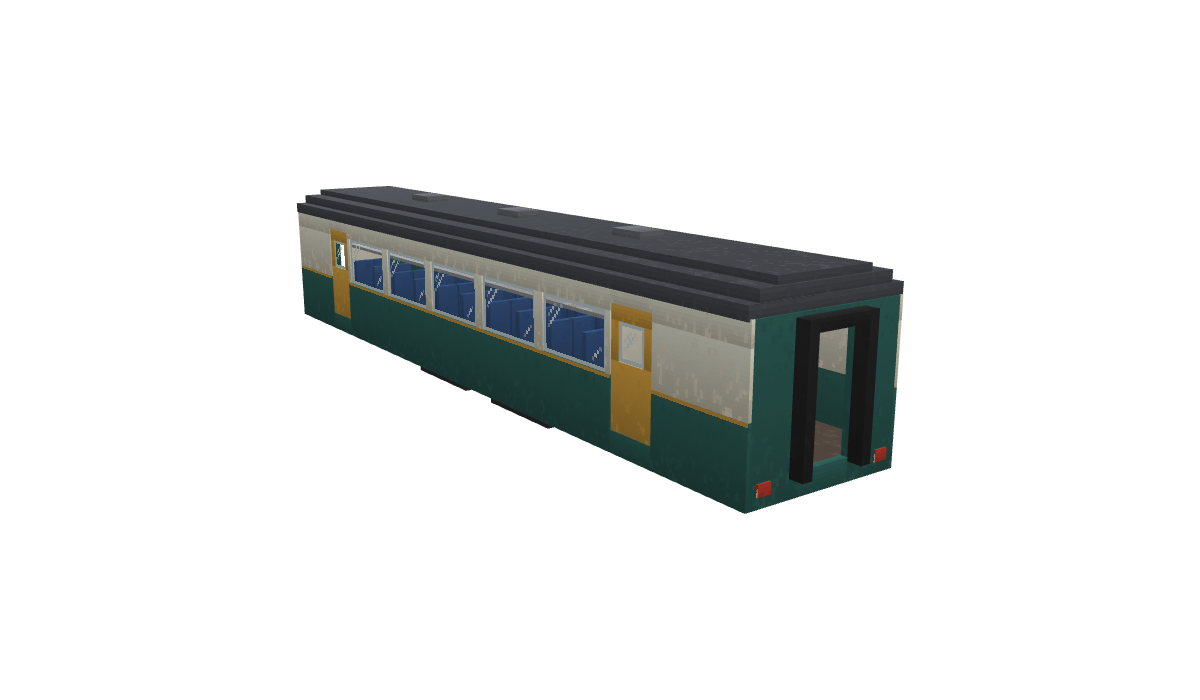
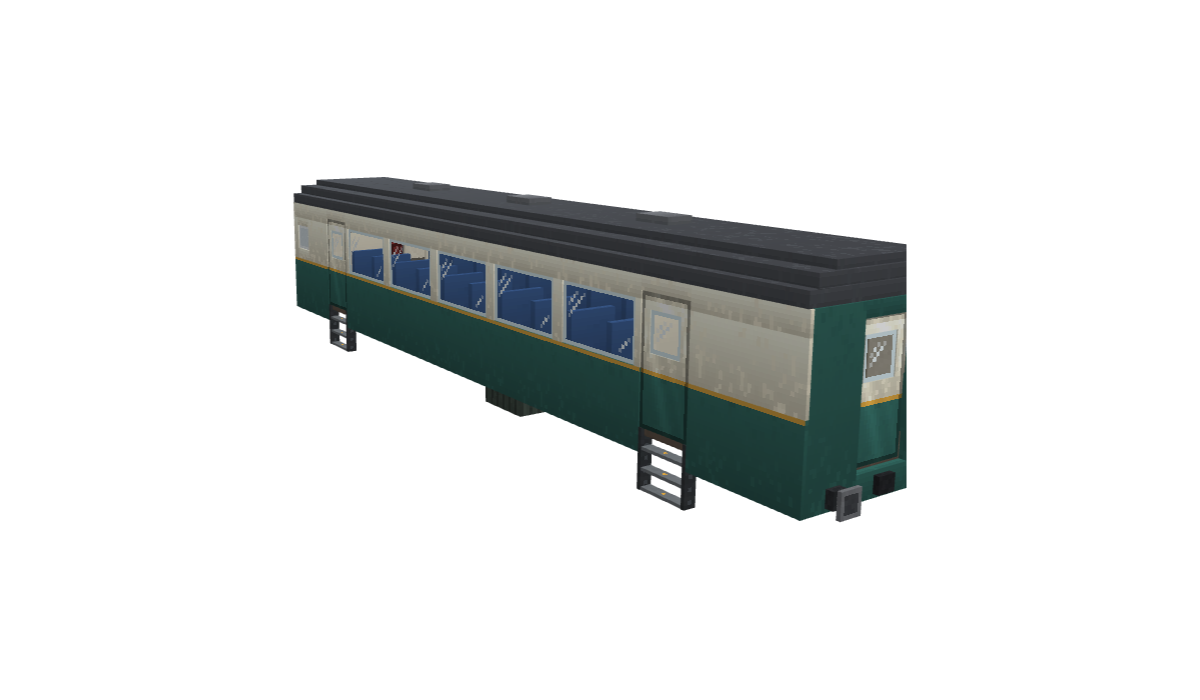
Update README for Beta 1.0 and refresh preview renders
Phase 1 marked complete (1.5-1.7), status set to Beta 1.0, feature
table covers the steam engine, goods wagons and couplers, new gallery of
the engine and wagons, project layout brought up to date.

Changed region(s): [[0.2467, 0.24, 0.7708, 0.75], [0.3392, 0.51, 0.4008, 0.57]]

diff --git a/README.md b/README.md
@@ -12,7 +12,7 @@ One item. One click. A real Create train — with walkable interiors, seats, doo
 [![Minecraft](https://img.shields.io/badge/Minecraft-1.21.1-5A8F3E?style=for-the-badge)](https://www.minecraft.net)
 [![NeoForge](https://img.shields.io/badge/NeoForge-21.1-D7742F?style=for-the-badge)](https://neoforged.net)
 [![Create](https://img.shields.io/badge/Create-6.0.10%2B-D9A441?style=for-the-badge)](https://github.com/Creators-of-Create/Create)
-[![Status](https://img.shields.io/badge/Status-Early%20development-2E5E57?style=for-the-badge)](#roadmap)
+[![Status](https://img.shields.io/badge/Status-Beta%201.0-2E5E57?style=for-the-badge)](#roadmap)
 [![License](https://img.shields.io/badge/License-MIT%20%C2%B7%20ARR%20assets-4A4D52?style=for-the-badge)](LICENSE.md)
 
 [Features](#features) &nbsp;·&nbsp; [How it works](#how-it-works) &nbsp;·&nbsp; [Roadmap](#roadmap) &nbsp;·&nbsp; [Custom trainsets](#make-your-own-trainsets) &nbsp;·&nbsp; [Building](#building-from-source) &nbsp;·&nbsp; [License](#license)
@@ -22,7 +22,7 @@ One item. One click. A real Create train — with walkable interiors, seats, doo
 <br>
 
 > [!IMPORTANT]
-> **Railbound is in early development.** The passenger coach and the steam tank locomotive can be placed, assembled and driven as real Create trains — with full 3D models, walkable interiors, working doors and a coal-and-water steam engine. Couplers are being built now; freight carriages come next. Follow the [roadmap](#roadmap) for progress.
+> **Railbound is in beta (1.0).** Phase 1 is complete: a steam tank locomotive, a passenger coach, a Box Van and a Tank Wagon, all running as real Create trains. They have knuckle couplers that follow curves, and stopped trains can be split and joined. Trainsets come from the creative menu for now; crafting recipes arrive in Phase 2. Back up your world before trying it, and please report bugs on the [issue tracker](https://github.com/DharshanTeja/Create-Railbound/issues).
 
 <br>
 
@@ -30,28 +30,36 @@ One item. One click. A real Create train — with walkable interiors, seats, doo
 
 Building a good-looking train in Create takes hours of block-by-block work. Railbound gives you complete, detailed rolling stock in a single item — and it is still a genuine Create train underneath, so schedules, stations and signals work exactly as you expect.
 
-<sub>Everything below is the 1.0 goal. See the <a href="#roadmap">roadmap</a> for what is already done.</sub>
-
 | | |
 |---|---|
 | **Single-item trainsets** | Every locomotive and carriage is one item rendering a full, detailed model — no block-by-block building. |
 | **Real Create trains** | Placed with Create's own station assembly. Schedules, signals, stations and other train addons see an ordinary Create train. |
-| **Walkable interiors** | Step inside, walk the aisle and right-click a seat to sit. Passenger cars seat two abreast — a window seat each side of a centre aisle. |
+| **A real steam engine** | Coal heats water into steam pressure, and pressure sets the pull. Fill it from the bunker, a bucket, pipes, Portable Interfaces or the trackside Water Crane. Chuffs and smoke follow the driving wheels. |
+| **Walkable interiors** | Step inside, walk the aisle and right-click a seat to sit. In the loco cab, sitting in the driver's seat is all it takes to drive. |
 | **Doors that work** | Doors open automatically when the train stops at a station, using Create's train-door behaviour. |
-| **Freight that works** | The items carriage holds 160 stacks and the fluid carriage 144 buckets. Open them by hand, or load and unload through Create's Portable Storage and Portable Fluid Interfaces. |
-| **Mix and match** | Couple trainset cars with your own hand-built carriages in the same train. |
+| **Freight that works** | The Box Van holds 160 stacks and the Tank Wagon 144 buckets. Sneak-click to open them, or load and unload through Create's Portable Storage and Portable Fluid Interfaces. |
+| **Couplers that bend** | Knuckle couplers and gangway bellows follow the track, even on tight curves. Wrench a coupler to split a stopped train; back in slowly to join. |
+| **Mix and match** | The Knuckle Coupler block lets your own hand-built carriages couple to Railbound cars in the same train. |
 | **Data-driven** | Every design is a datapack + resource pack. Modpacks can add their own trains without writing code. |
 
 <div align="center">
+<img src="art/previews/loco_steam_tank.png" alt="The Steam Tank Engine, seen from the front" width="49%">
+<img src="art/previews/loco_steam_tank_rear.png" alt="The Steam Tank Engine's cab and coal bunker, seen from the rear" width="49%"><br>
+<img src="art/previews/wagon_box_van.png" alt="The Box Van, a covered goods wagon" width="49%">
+<img src="art/previews/wagon_tank.png" alt="The Tank Wagon, with walkways, handrails and a dome" width="49%"><br>
+<sub><i>The Steam Tank Engine, the Box Van and the Tank Wagon. In game they ride on Railbound's own bogeys.</i></sub>
+</div>
+
+<div align="center">
 <img src="art/previews/coach_standard_interior.png" alt="Interior of the Standard Passenger Coach: two-plus-two seating, luggage racks and a lit ceiling" width="640"><br>
-<sub><i>Inside the Standard Passenger Coach — prototype model. The final coach seats 20, one window seat each side of the aisle.</i></sub>
+<sub><i>Inside the Standard Passenger Coach.</i></sub>
 </div>
 
 ### Planned rolling stock
 
 | Phase | Locomotives | Carriages |
 |:---:|---|---|
-| 1 | Steam | Passenger coach · Items carriage · Fluid carriage |
+| 1 ✅ | Steam tank engine | Passenger coach · Box Van · Tank Wagon |
 | 2 | — | More carriage types |
 | 3 | 2 × Diesel | Passenger and goods multiple units |
 | 4 | 2 × Electric | 2 carriages per type · 2 EMUs |
@@ -63,7 +71,7 @@ Building a good-looking train in Create takes hours of block-by-block work. Rail
 Railbound plugs into the train assembly you already know from Create:
 
 1. **Build a station** beside straight track and switch it to **assembly mode**.
-2. **Right-click the track** with a trainset item — the carriage appears, already on its bogeys.
+2. Take a trainset from the **Railbound** creative tab and **right-click the track** with it — the carriage appears, already on its bogeys.
 3. Add more cars (sneak-click to place one facing backwards, for the rear cab of a multiple unit).
 4. Press **Assemble Train**. Drive it yourself, or seat a conductor at the controls and hand them a schedule — it is a Create train.
 5. Back at a station, disassemble and **shift + right-click with a wrench** to pick a carriage up again.
@@ -92,10 +100,10 @@ Railbound ships in four phases. Each phase is built in small sub-phases, and eve
 | ✅ | **1.2 Coach interior** | Right-click seating, doors that open at stations, interfaces that fit into the coach wall |
 | ✅ | **1.3 Coach visuals** | Full 3D models in game, sliding doors, glowing lamps, Blockbench-to-game converter |
 | ✅ | **1.4 Steam locomotive** | Steam tank engine with boiler pressure, coal and water, automatic firing, animated rods, synced smoke, chuff and whistle, cab gauges, and a trackside water crane |
-| ⏳ | **1.5 Couplers** | Knuckle couplers and coach gangways that follow curves, a coupler block for hand-built carriages, splitting and joining stopped trains |
-| ○ | **1.6 Items carriage** | 160-stack storage, scrolling GUI, Portable Storage Interface |
-| ○ | **1.7 Fluid carriage** | 144-bucket tank, fill-and-drain GUI, Portable Fluid Interface |
-| ○ | **1.8 Release** | Compatibility, performance and polish |
+| ✅ | **1.5 Couplers** | Knuckle couplers and coach gangways that follow curves, a coupler block for hand-built carriages, splitting and joining stopped trains, disassembling a train whose tail is on a curve |
+| ✅ | **1.6 Items carriage** | Box Van: 160-stack storage, scrolling GUI, Portable Storage Interface, Railbound freight trucks |
+| ✅ | **1.7 Fluid carriage** | Tank Wagon: 144-bucket tank, fill-and-drain GUI, Portable Fluid Interface |
+| ⏳ | **1.8 Release** | Beta 1.0 — compatibility, performance and polish from player feedback |
 
 <br>
 
@@ -162,12 +170,18 @@ Create-Railbound/
 ├── Mod/                    the NeoForge mod (Gradle project)
 │   └── src/
 │       ├── main/java/dev/railbound/
-│       │   ├── trainset/design/   design records, layout parser, validator
-│       │   ├── trainset/load/     datapack loading and the live design registry
-│       │   ├── trainset/item/     the trainset item, names and tooltips
-│       │   ├── network/           design sync to clients
-│       │   └── registry/          items, data components, creative tab
+│       │   ├── trainset/          design format, validation, datapack loading, the trainset item, placement
+│       │   ├── carriage/          the blocks a carriage is built from: floor, seats, doors, cab controls
+│       │   ├── steam/             boiler, firing, smoke, chuff and whistle, water crane
+│       │   ├── coupling/          splitting, joining and partial disassembly of trains
+│       │   ├── cargo/             Box Van and Tank Wagon storage and screens
+│       │   ├── bogey/             Railbound bogey styles
+│       │   ├── client/            renderers, screens, HUD and particles
+│       │   ├── mixin/             hooks into Create's train code
+│       │   ├── network/           design sync and train packets
+│       │   └── registry/          blocks, items, menus, creative tab
 │       └── test/                  unit tests
+├── Mod/buildSrc/           Blockbench-to-game model converter (runs during the build)
 └── art/                    Blockbench source models and preview renders
 ```
 
